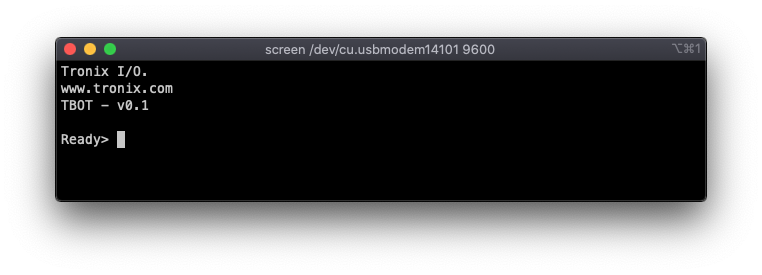
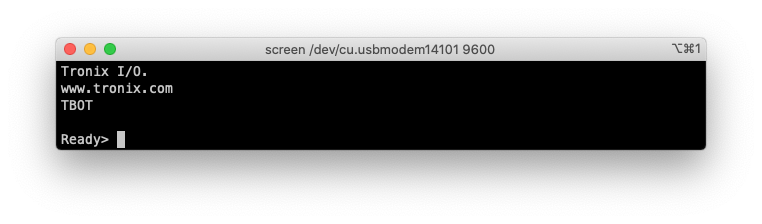
Update TX

diff --git a/Code/eusart-tx/README.md b/Code/eusart-tx/README.md
@@ -30,8 +30,12 @@ CONFIG LVP=ON
 ; -preset_vec=0000h, -pcinit=0005h, -pstringtext=3FC0h.
 ; Instruction ~500ns @8MHz.
 
-; TBOT - EUSART TX.
-; Display Strings.
+; TBOT - EUSART TX/RX.
+; Echo RX Character.
+
+; GPR BANK0.
+PSECT   cstackBANK0,class=BANK0,space=1,delta=1
+u8EusartRX:   DS  1
 
 ; MCU Definitions.
 ; BANKS.
@@ -74,14 +78,16 @@ CONFIG LVP=ON
 ; User Definition.
 ; LED Debug.
 #define	LED_DEBUG   0x6
+; ASCII Characters.
+#define	ASCII_CR    0xD
 
 ; Reset Vector.
-PSECT reset_vec,class=CODE,space=0,delta=2
+PSECT   reset_vec,class=CODE,space=0,delta=2
 resetVector:
     GOTO    main
 
 ; Main.
-PSECT cinit,class=CODE,space=0,delta=2
+PSECT   cinit,class=CODE,space=0,delta=2
 main:
     ; MCU Initialization.
     ; Internal Oscillator Settings.
@@ -175,6 +181,10 @@ main:
     MOVLW   0xAA
     MOVWF   PPSLOCK
     BCF	    PPSLOCK, 0x0
+    ; PPS Inputs.
+    ; RB7 - EUSART.URX.
+    movlw   0x0F
+    movwf   RXPPS
     ; PPS Outputs.
     MOVLB   BANK29
     ; RB6 - EUSART.UTX.
@@ -212,15 +222,42 @@ main:
     CALL    _writeStringREADY
 
 loop:
-    BRA	    $
+    ; EUSART Echo Character.
+    CALL    _eusartRX
+    CALL    _eusartTX
+
+    ; Carriage Return ?
+    MOVLB   BANK0
+    MOVLW   ASCII_CR
+    XORWF   u8EusartRX, W
+    BTFSS   STATUS, Z
+    BRA	    loop
+
+    ; EUSART String READY.
+    CALL    _writeStringREADY
+
+    BRA	    loop
 
 ; Functions.
+_eusartRX:
+    MOVLB   BANK0
+    BTFSS   RCIF
+    BRA	    $-1
+    MOVLB   BANK3
+    BTFSS   OERR
+    BRA	    $+3
+    BCF	    CREN
+    BSF	    CREN
+    MOVF    RC1REG, W
+    MOVLB   BANK0
+    MOVWF   u8EusartRX
+    RETURN
+
 _eusartTX:
     MOVLB   BANK3
-    MOVWF   TX1REG
-    MOVLB   BANK0
-    BTFSS   TXIF
+    BTFSS   TRMT
     BRA	    $-1
+    MOVWF   TX1REG
     RETURN
 
 _eusartTXString:
@@ -264,12 +301,12 @@ _writeStringURL:
     RETURN
 
 ; FPM Strings.
-PSECT stringtext,class=STRCODE,space=0,delta=2
+PSECT   stringtext,class=STRCODE,space=0,delta=2
 stringREADY:
     DB  0xD, 0xA, 0xD, 0xA, 'R','e','a','d','y','>',' ', 0x0
 
 stringTBOT:
-    DB  0xD, 0xA, 'T','B','O','T',' ','-',' ','v','0','.','1', 0x0
+    DB  0xD, 0xA, 'T','B','O','T', 0x0
 
 stringTRONIX:
     DB  0xD, 0xA, 0xD, 0xA, 'T','r','o','n','i','x',' ','I','/','O','.', 0x0
@@ -277,7 +314,7 @@ stringTRONIX:
 stringURL:
     DB  0xD, 0xA, 'w','w','w','.','t','r','o','n','i','x','.','c','o','m', 0x0
 
-    END	    resetVector
+    END resetVector
 ```
 
 ## Oscilloscope.
